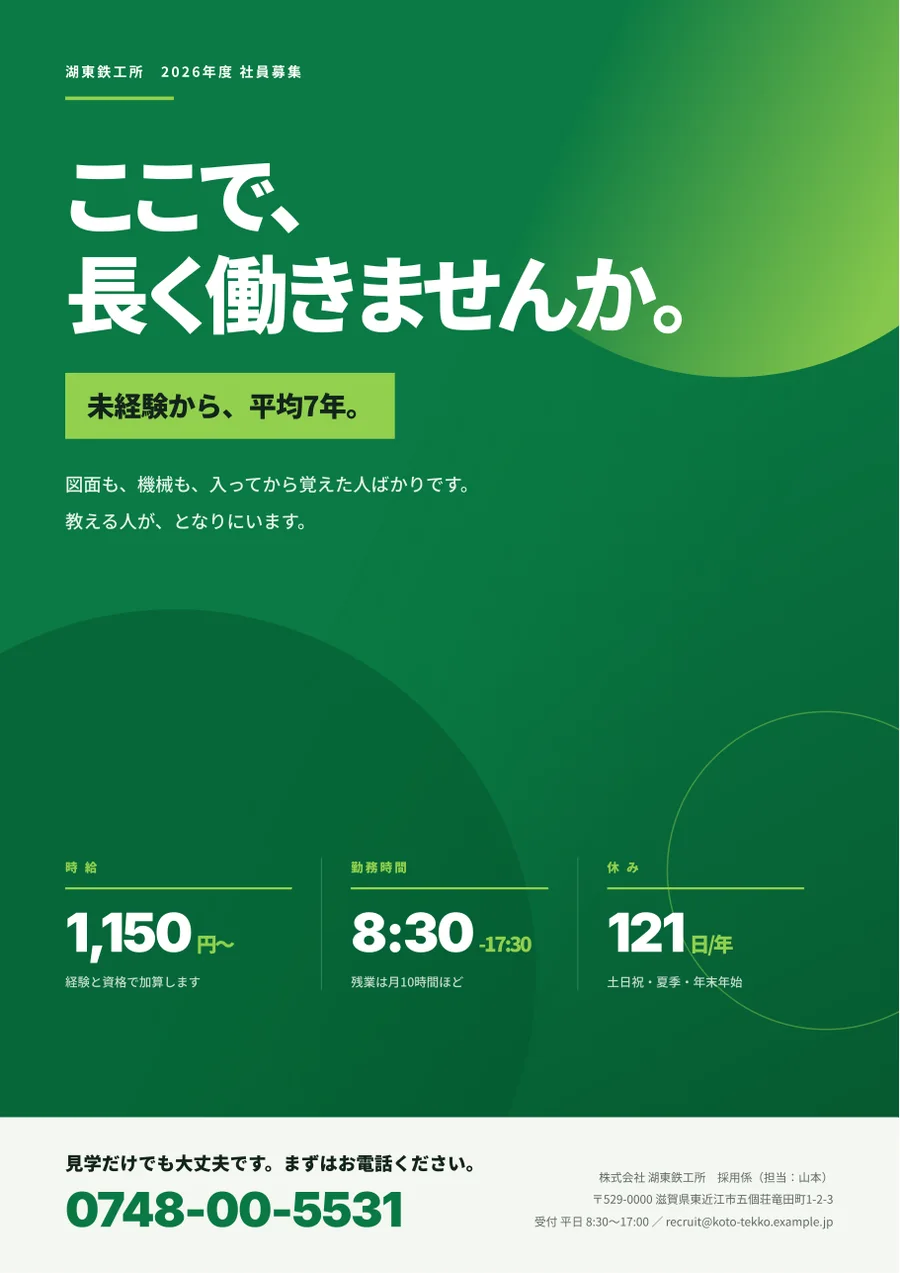
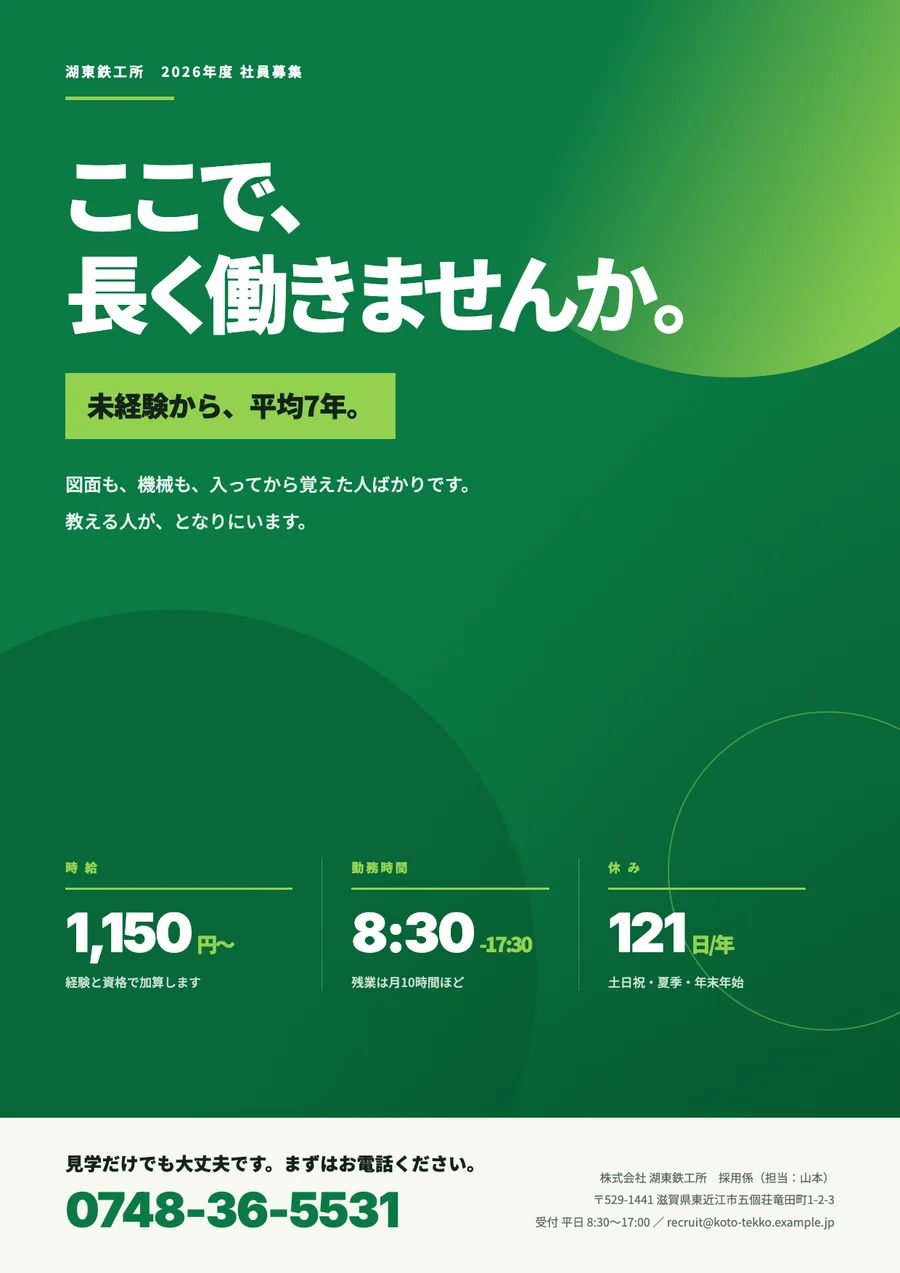
sample signs and flyers: realistic Shiga phone numbers and postcodes
Claude-Session: https://claude.ai/code/session_01T22wKR2yvNL7pqGT1C5yET

diff --git a/_sign-seta.html b/_sign-seta.html
@@ -55,7 +55,7 @@
 
   <svg class="wave" viewBox="0 0 1500 400" preserveAspectRatio="none"><path d="M0 40 C 120 0, 240 70, 380 36 S 640 0, 780 36 S 1040 76, 1180 36 S 1400 0, 1500 30 V400 H0 Z" fill="#26357a"/></svg>
 
-  <div class="tel"><svg width="44" height="44" viewBox="0 0 24 24" fill="none" stroke="#fff" stroke-width="2.2" stroke-linecap="round"><path d="M22 16.9v3a2 2 0 0 1-2.2 2 19.8 19.8 0 0 1-8.6-3.1 19.5 19.5 0 0 1-6-6A19.8 19.8 0 0 1 2.1 4.2 2 2 0 0 1 4.1 2h3a2 2 0 0 1 2 1.7c.1.9.4 1.8.7 2.7a2 2 0 0 1-.5 2.1L8 9.8a16 16 0 0 0 6 6l1.3-1.3a2 2 0 0 1 2.1-.4c.9.3 1.8.6 2.7.7a2 2 0 0 1 1.7 2z"/></svg>077-000-5833</div>
+  <div class="tel"><svg width="44" height="44" viewBox="0 0 24 24" fill="none" stroke="#fff" stroke-width="2.2" stroke-linecap="round"><path d="M22 16.9v3a2 2 0 0 1-2.2 2 19.8 19.8 0 0 1-8.6-3.1 19.5 19.5 0 0 1-6-6A19.8 19.8 0 0 1 2.1 4.2 2 2 0 0 1 4.1 2h3a2 2 0 0 1 2 1.7c.1.9.4 1.8.7 2.7a2 2 0 0 1-.5 2.1L8 9.8a16 16 0 0 0 6 6l1.3-1.3a2 2 0 0 1 2.1-.4c.9.3 1.8.6 2.7.7a2 2 0 0 1 1.7 2z"/></svg>077-543-5833</div>
   <div class="search">せた耳鼻科・こども科<b><svg width="34" height="34" viewBox="0 0 24 24" fill="none" stroke="#26357a" stroke-width="2.8"><circle cx="10" cy="10" r="7"/><path d="M15 15l6 6"/></svg></b></div>
 
   <div class="kensaku">＼ 検索！ ／</div>

diff --git a/_flyer-it.html b/_flyer-it.html
@@ -108,7 +108,7 @@
     <div class="all">そんな悩みも、<em>まとめて解決</em>します！</div>
   </div>
   <div class="credit">自主制作 / Kinoshita Studio ── 架空の会社です</div>
-  <div class="foot"><span class="ad">株式会社ココロアイティー（KOKORO IT）<br><small>〒524-0000 滋賀県守山市勝部3丁目9-12 ／ 受付 平日 9:00〜18:00 ／ kokoro-it.example.jp</small></span><span class="tel"><small>通話無料</small>0120-000-381</span></div>
+  <div class="foot"><span class="ad">株式会社ココロアイティー（KOKORO IT）<br><small>〒524-0041 滋賀県守山市勝部3丁目9-12 ／ 受付 平日 9:00〜18:00 ／ kokoro-it.example.jp</small></span><span class="tel"><small>通話無料</small>0120-538-381</span></div>
 </div>
 
 </body>

diff --git a/_flyer-seminar.html b/_flyer-seminar.html
@@ -136,8 +136,8 @@
     <p class="apply">お申込は<br>こちらから<span>締切 11月18日（水）正午</span></p>
     <div class="bar"></div>
     <p class="who"><b>主催：びわこ経営サポート協議会</b><br>
-      〒520-0000 滋賀県大津市浜大津2丁目1-35 びわこビル4F<br>
-      TEL 077-000-4120（平日 9:00〜18:00）／ teichaku@biwako-keiei.example.jp<br>
+      〒520-0047 滋賀県大津市浜大津2丁目1-35 びわこビル4F<br>
+      TEL 077-524-4120（平日 9:00〜18:00）／ teichaku@biwako-keiei.example.jp<br>
       申込フォーム biwako-keiei.example.jp/seminar</p>
     <div class="free">参加<br>無料</div>
   </div>

diff --git a/_flyer-saiyo.html b/_flyer-saiyo.html
@@ -135,8 +135,8 @@
 
   <div class="foot">
     <p class="line">見学だけでも大丈夫です。まずはお電話ください。</p>
-    <p class="tel">0748-00-5531</p>
-    <p class="addr">株式会社 湖東鉄工所　採用係（担当：山本）<br>〒529-0000 滋賀県東近江市五個荘竜田町1-2-3<br>受付 平日 8:30〜17:00 ／ recruit@koto-tekko.example.jp</p>
+    <p class="tel">0748-36-5531</p>
+    <p class="addr">株式会社 湖東鉄工所　採用係（担当：山本）<br>〒529-1441 滋賀県東近江市五個荘竜田町1-2-3<br>受付 平日 8:30〜17:00 ／ recruit@koto-tekko.example.jp</p>
   </div>
 </div>
 

diff --git a/_flyer-brand.html b/_flyer-brand.html
@@ -82,7 +82,7 @@
   <div class="tag">可能性を、湖の向こうへ。</div>
 
   <div class="qr"><div>SPECIAL SITE<b></b></div><div>BRAND MOVIE<b></b></div></div>
-  <div class="corp">株式会社レイクワークス　〒525-0000 滋賀県草津市西渋川1丁目4-8 レイクワークスビル<br>TEL 077-000-8800　lakeworks.example.jp</div>
+  <div class="corp">株式会社レイクワークス　〒525-0025 滋賀県草津市西渋川1丁目4-8 レイクワークスビル<br>TEL 077-562-8800　lakeworks.example.jp</div>
   <div class="credit">自主制作 / Kinoshita Studio ── 架空の会社です</div>
 </div>
 

diff --git a/_sign-katata.html b/_sign-katata.html
@@ -64,7 +64,7 @@
   <div class="dept">内科<br>消化器科</div>
   <div class="name">かたた内科</div>
   <div class="search"><i><svg width="26" height="26" viewBox="0 0 24 24" fill="none" stroke="#1d2b4f" stroke-width="2.6"><circle cx="10" cy="10" r="7"/><path d="M15 15l6 6"/></svg></i><span>かたた内科　堅田</span><b>検索</b></div>
-  <div class="tel"><small>TEL</small>077-000-2470</div>
+  <div class="tel"><small>TEL</small>077-572-2470</div>
 
   <svg class="route" viewBox="0 0 600 560" aria-label="道案内">
     <!-- 大きな右折の矢印（白） -->
